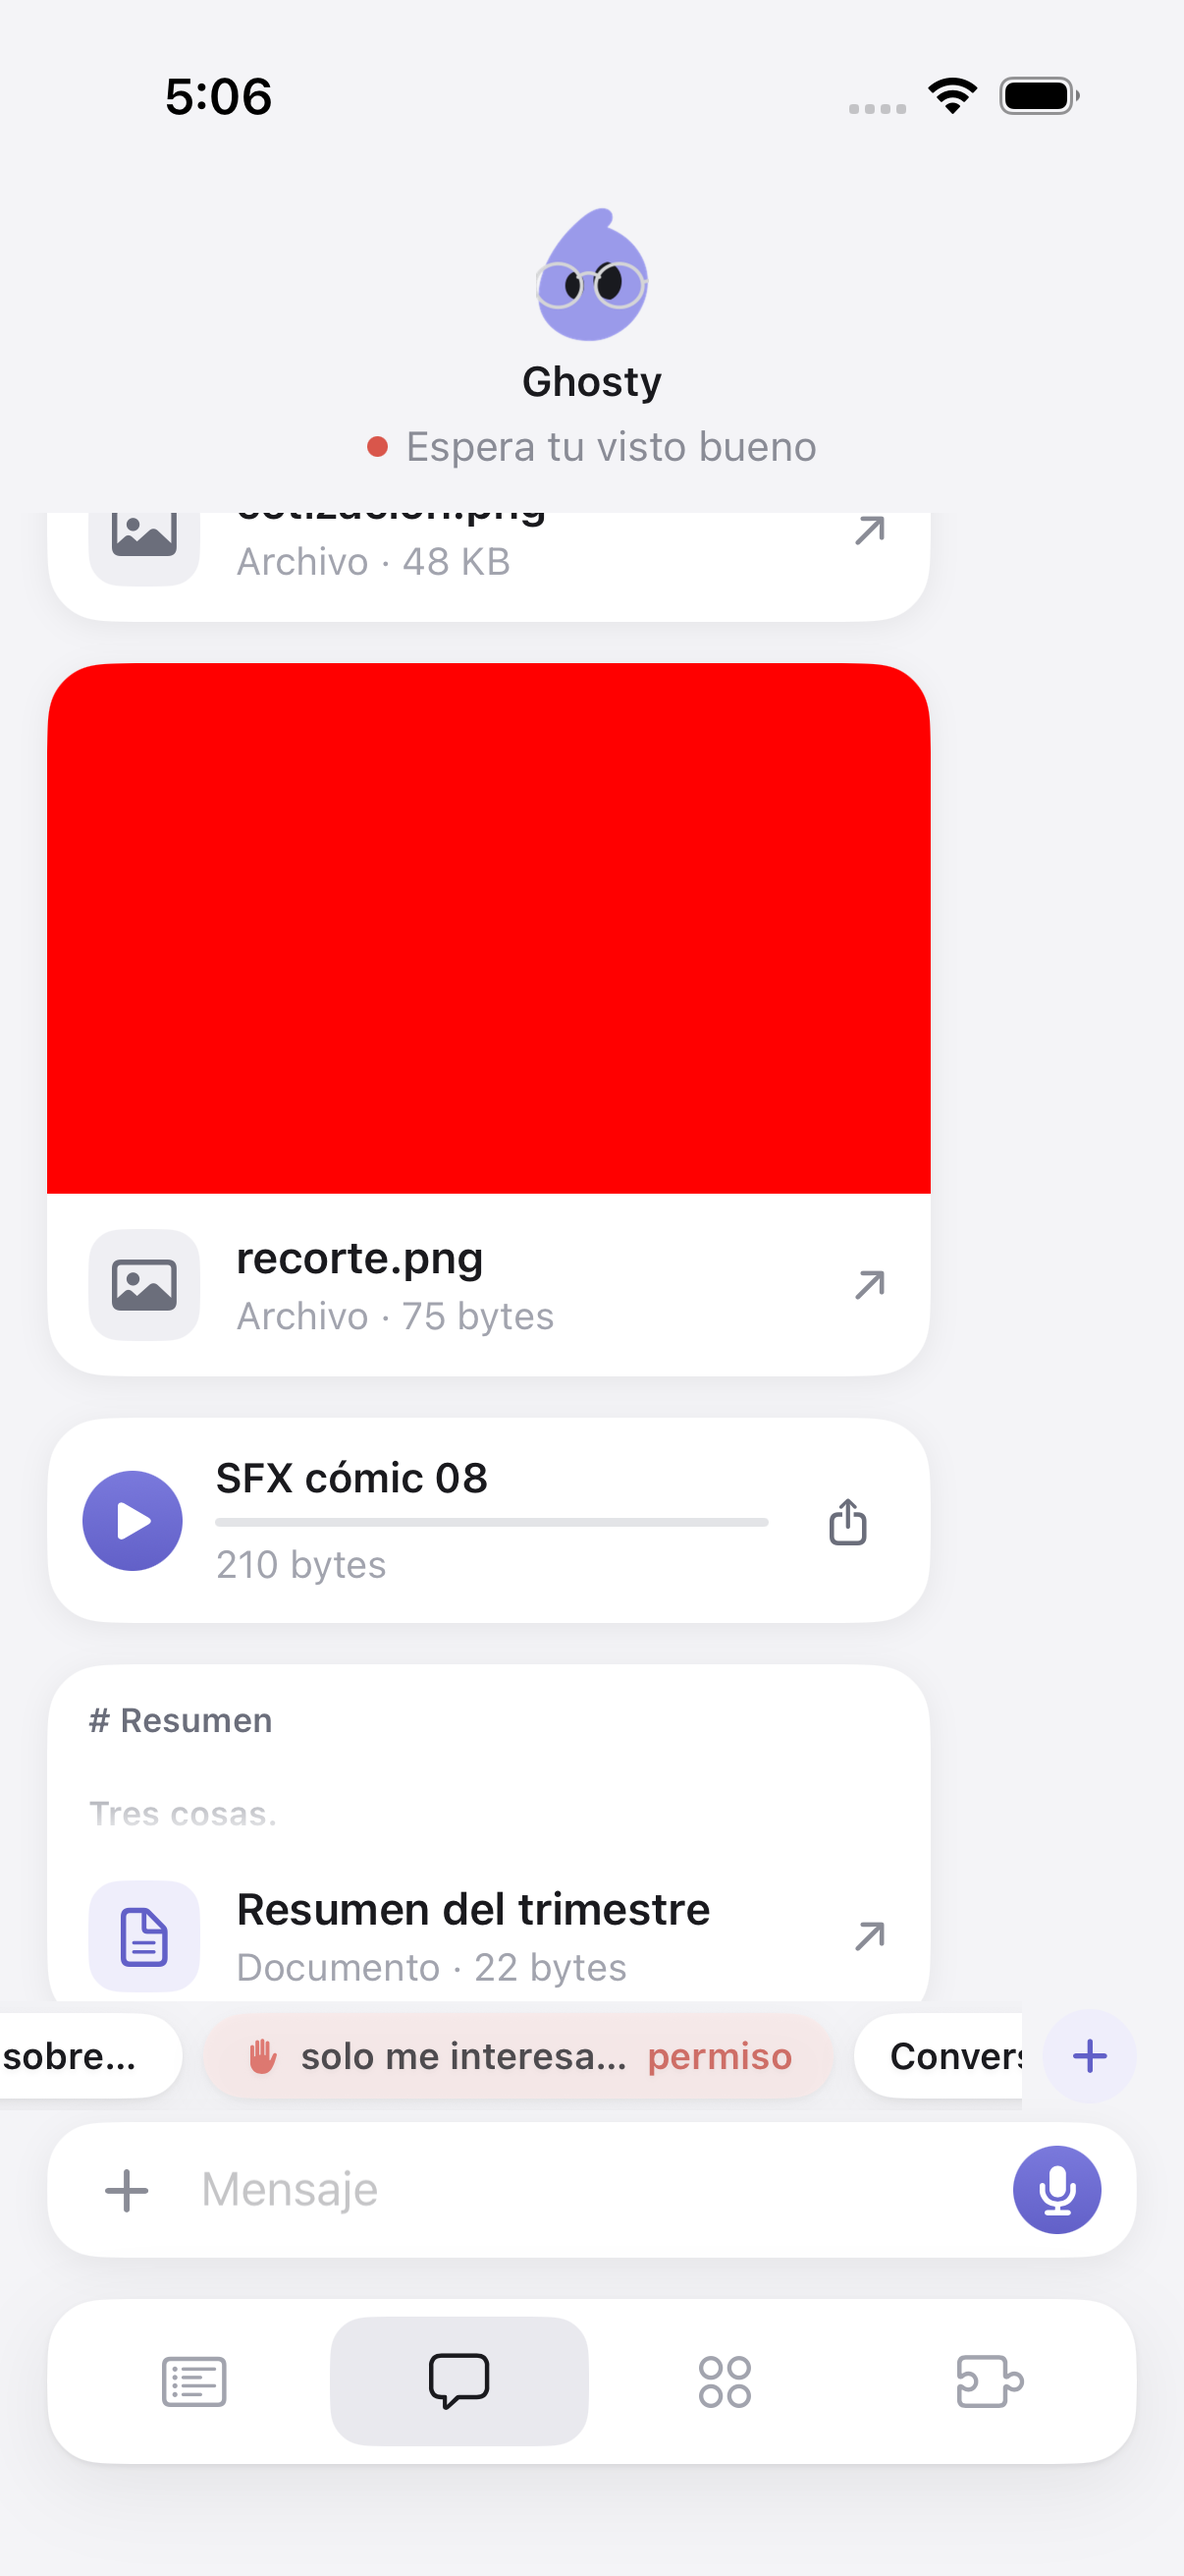
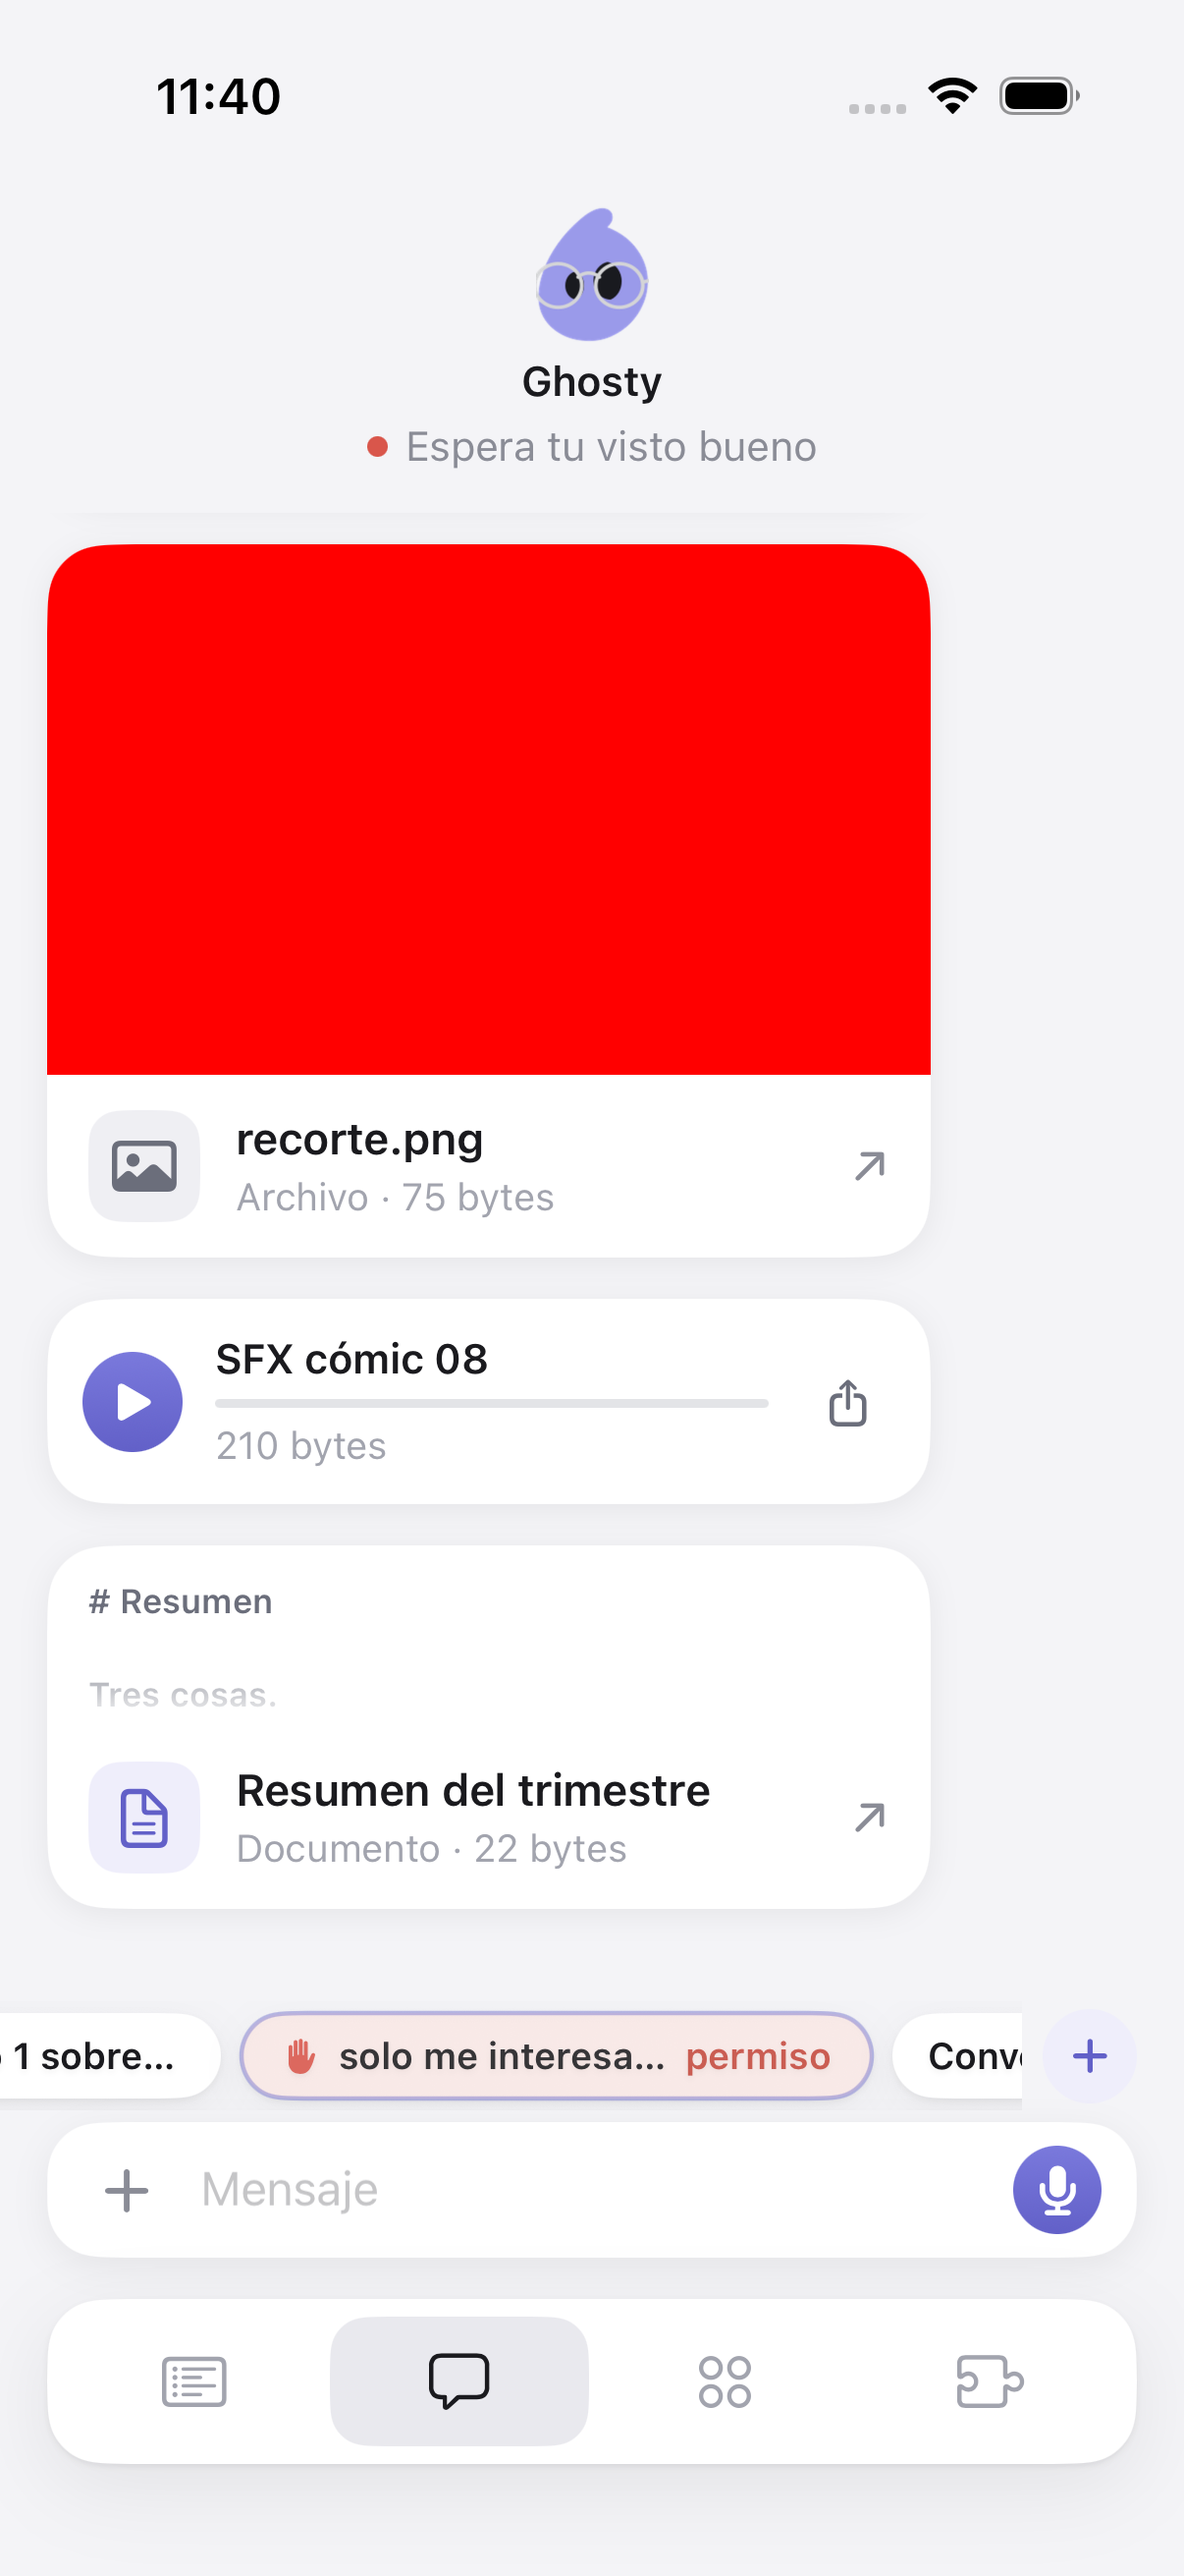
Tres de esta noche: el aviso, el historial que se perdía y la palomita
1. El aviso abría la conversación correcta y la enseñaba VACÍA: pedía «la
   conversación activa» justo después de cambiarla, y esa carrera se pierde.
   Ahora se pide ESA conversación por su id. Y si tocas el aviso con la app
   cerrada, se guarda y se aplica cuando ya hay dónde llevarlo — antes se perdía
   y te dejaba donde estuvieras.

2. **Se perdían respuestas del historial.** El hilo del servidor viene recortado
   por la cola y además junta mensajes seguidos del mismo hablante, así que puede
   volver MÁS CORTO que lo que ya tienes delante — y se sustituía sin más. Ahora
   nunca se pisa con menos: mejor quedarse corto de frescura que perder una
   conversación.

3. La palomita no se ponía en las conversaciones que terminaban sin que el turno
   fuera nuestro. Al engancharse a uno que ya corría no hay turno local que
   mirar, así que ahora también cuenta que lo último del hilo lo escribiera el
   agente.

Claude-Session: https://claude.ai/code/session_01XPG8fvEaYfgQKpA2u5DMdh

diff --git a/GhostyApp/Data/LiveAgentStore.swift b/GhostyApp/Data/LiveAgentStore.swift
@@ -256,6 +256,12 @@ final class LiveAgentStore: AgentStoring {
         if !guardadas.isEmpty, conexion != .lista {
             cuentas = guardadas
             montarCanales()
+        // El aviso que se tocó con la app cerrada, ahora que ya hay dónde llevarlo.
+        if let pendiente = avisoPendiente {
+            avisoPendiente = nil
+            seleccionar(pendiente.agente)
+            abrirDesdeAviso(sesion: pendiente.sesion, de: pendiente.agente)
+        }
         // Gancho de desarrollo: arrancar en una conversación NUEVA, que es el camino que
         // más se rompe —crear sesión y mandar el primer turno— y el que no se puede
         // provocar desde un script sin tocar la pantalla.
@@ -450,6 +456,32 @@ final class LiveAgentStore: AgentStoring {
         return hilo.mensajes.count != antes
     }
 
+    /// Abrir la conversación de un aviso: llevar allí, traer lo que se dijo y escuchar.
+    ///
+    /// ⚠ Se pide ESTA conversación por su id, no «la activa». Pedir la activa justo
+    /// después de cambiarla es una carrera que se pierde: el aviso te llevaba al sitio
+    /// correcto y el hilo aparecía vacío.
+    func abrirDesdeAviso(sesion: String, de agentID: String) {
+        // ⚠ Con la app CERRADA, el aviso llega antes de que existan los canales: se
+        // guarda y se aplica en cuanto la lista esté montada. Sin esto, tocar un aviso
+        // arrancaba la app y te dejaba en la conversación de siempre — como si el aviso
+        // hubiera sido de ésa.
+        guard let canal = canales[agentID] else {
+            avisoPendiente = (agentID, sesion)
+            return
+        }
+        let hilo = canal.hilo(sesion: sesion) ?? canal.abrir(sesion)
+        mirar(hilo, de: agentID)
+        Task { [weak self, weak canal] in
+            guard let self, let canal else { return }
+            await self.traerLaConversacion(hilo, de: canal)
+            self.engancharse(hilo, de: canal)
+        }
+    }
+
+    /// El aviso que se tocó antes de que la app tuviera conversaciones que enseñar.
+    private var avisoPendiente: (agente: String, sesion: String)?
+
     /// Qué conversaciones hay, qué se dijo en la que miras, y volver a escucharla.
     func ponerseAlDia(_ canal: Canal) {
         guard !DemoData.encendido, Session.haySesion else { return }
@@ -497,7 +529,16 @@ final class LiveAgentStore: AgentStoring {
             for e in entregas.deSesion(sid) where !mensajes.contains(where: { $0.id == "entrega-\(e.id)" }) {
                 mensajes.append(Message(id: "entrega-\(e.id)", kind: .entrega(e)))
             }
-            guard !mensajes.isEmpty, hilo.mensajes.count <= antes else { return }
+            // ⚠⚠ NUNCA se pisa con MENOS de lo que ya hay. El servidor devuelve la cola
+            // del hilo (`tail`), y además junta mensajes seguidos del mismo hablante: lo
+            // que vuelve puede ser más corto que lo que tienes delante, y sustituirlo sin
+            // más borra respuestas que estaban bien. Si viene con menos, se deja lo local
+            // y se prefiere quedarse corto de frescura que perder una conversación.
+            guard !mensajes.isEmpty, hilo.mensajes.count <= antes,
+                  mensajes.count >= hilo.mensajes.count else {
+                EasyBitsClient.diag("[hilo] \(sid): el servidor trae \(mensajes.count) y aquí hay \(hilo.mensajes.count); no lo piso")
+                return
+            }
             hilo.mensajes = mensajes
             hilo.fallo = nil
             guardarHilos(canal)
@@ -1580,7 +1621,12 @@ final class LiveAgentStore: AgentStoring {
         // había acabado, justo cuando lo que había pasado era que bloqueaste el teléfono.
         // El reloj sí se limpia —el turno local ya no existe—, pero la conversación queda
         // pendiente hasta que se recoja de verdad.
-        let hubo = hilo.turno != nil && !hilo.interrumpido
+        // ⚠ «Hubo turno» también cuando lo escuchamos sin haberlo mandado: al
+        // engancharse a una conversación que estaba trabajando, el turno local puede no
+        // existir, y sin esto la conversación terminaba sin ponerse la palomita — parecía
+        // que seguía pendiente cuando ya había contestado.
+        let hubo = (hilo.turno != nil || hilo.mensajes.last?.esDelAgente == true)
+            && !hilo.interrumpido
         hilo.cronometro?.cancel(); hilo.cronometro = nil
         hilo.turno = nil; hilo.inicio = nil
         if hubo {

diff --git a/GhostyApp/RootView.swift b/GhostyApp/RootView.swift
@@ -83,12 +83,8 @@ struct RootView: View {
             // fallaba en silencio y te dejaba donde estuvieras: tocabas un aviso de una
             // conversación y aterrizabas en otra, que es peor que no llevarte a ninguna
             // —te hace creer que el aviso era de ésta—.
-            if let sesion = aviso.userInfo?["sesion"] as? String, let canal = store.canales[id] {
-                let hilo = canal.hilo(sesion: sesion) ?? canal.abrir(sesion)
-                store.mirar(hilo, de: id)
-                // Y se pide su contenido: una conversación recién abierta está vacía, y el
-                // aviso decía justamente que ahí había algo nuevo.
-                store.ponerseAlDia(canal)
+            if let sesion = aviso.userInfo?["sesion"] as? String {
+                store.abrirDesdeAviso(sesion: sesion, de: id)
             }
             tab = .chat
         }

diff --git a/GhostyApp/Models/Message.swift b/GhostyApp/Models/Message.swift
@@ -31,6 +31,16 @@ struct PullRequestCard: Equatable, Sendable {
 }
 
 struct Message: Identifiable, Equatable, Sendable {
+    /// ¿Lo último que hay en el hilo lo escribió el agente? Con eso se sabe que una
+    /// conversación CONTESTÓ, aunque el turno no fuera nuestro —al engancharse a uno que
+    /// ya estaba corriendo, aquí no hay turno local que mirar—.
+    var esDelAgente: Bool {
+        switch kind {
+        case .agent, .entrega: return true
+        default: return false
+        }
+    }
+
     enum Kind: Equatable, Sendable {
         /// El texto y, si los hubo, lo que se mandó con él.
         ///
